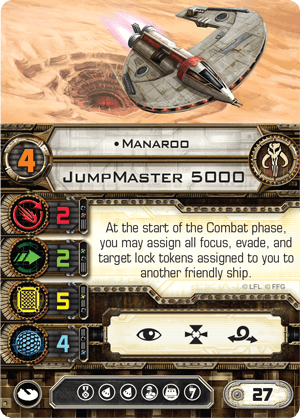
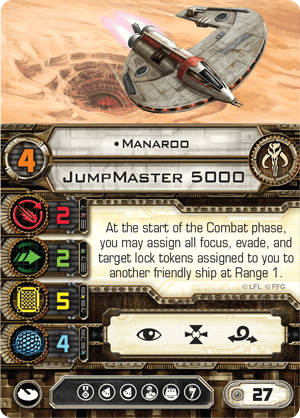
New: Update cards affected by FAQ 4.3.0
https://www.fantasyflightgames.com/en/news/2017/3/6/bringing-balance-to-the-force/

diff --git a/data/upgrades.js b/data/upgrades.js
@@ -1361,7 +1361,7 @@
     "faction": "Galactic Empire",
     "slot": "Crew",
     "points": 8,
-    "text": "Once per round, you may change a friendly ship's die result to any other die result. That die result cannot be modified again.",
+    "text": "Once per round, before a friendly ship rolls dice, you may name a die result. After rolling, you must change 1 of your dice results to the named result. That die result cannot be modified again.",
     "image": "upgrades/Crew/emperor-palpatine.png",
     "xws": "emperorpalpatine"
   },
@@ -2512,7 +2512,7 @@
   },
   {
     "image": "upgrades/Title/tie-x7.png",
-    "text": "Your upgrade bar loses the [Cannon] and [Missile] upgrade icons.<br /><br />After executing a 3-, 4-, or 5-speed maneuver, you may assign 1 evade token to your ship.",
+    "text": "Your upgrade bar loses the [Cannon] and [Missile] upgrade icons.<br /><br />After executing a 3-, 4-, or 5-speed maneuver, if you did not overlap an obstacle or ship, you may perform a free evade action.",
     "name": "TIE/x7",
     "unique": false,
     "points": -2,
@@ -2642,7 +2642,7 @@
   },
   {
     "image": "upgrades/Crew/zuckuss.png",
-    "text": "When attacking, you may receive any number of stress tokens to choose an equal number of defense dice. The defender must reroll those dice.",
+    "text": "When attacking, if you are not stressed, you may receive any number of stress tokens to choose an equal number of defense dice. The defender must reroll those dice.",
     "name": "Zuckuss",
     "xws": "zuckuss",
     "unique": true,

diff --git a/data/pilots.js b/data/pilots.js
@@ -3020,7 +3020,7 @@
   },
   {
     "image": "pilots/Scum and Villainy/JumpMaster 5000/manaroo.png",
-    "text": "At the start of the Combat phase, you may assign all focus, evade, and target lock tokens assigned to you to another friendly ship.",
+    "text": "At the start of the Combat phase, you may assign all focus, evade, and target lock tokens assigned to you to another friendly ship at Range 1.",
     "name": "Manaroo",
     "xws": "manaroo",
     "ship": "JumpMaster 5000",
